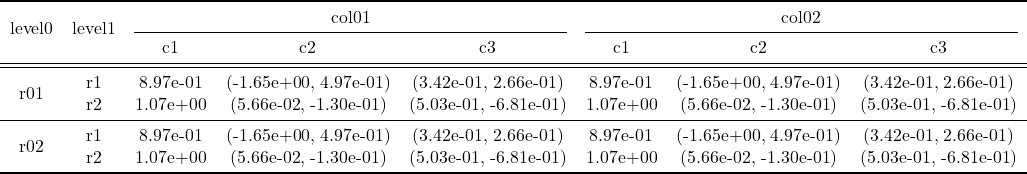
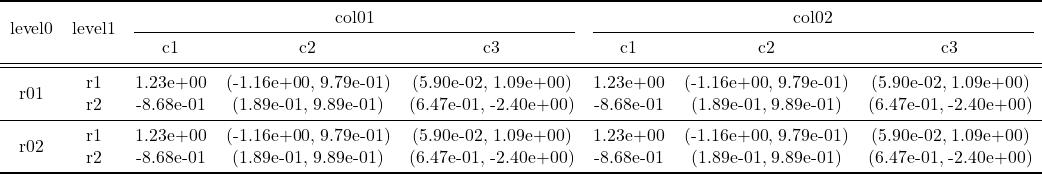
build based on d86344c

diff --git a/dev/index.html b/dev/index.html
@@ -1,2 +1,2 @@
 <!DOCTYPE html>
-<html lang="en"><head><meta charset="UTF-8"/><meta name="viewport" content="width=device-width, initial-scale=1.0"/><title>LaTeXTables.jl Documentation · LaTeXTables.jl Documentation</title><script data-outdated-warner src="assets/warner.js"></script><link href="https://cdnjs.cloudflare.com/ajax/libs/lato-font/3.0.0/css/lato-font.min.css" rel="stylesheet" type="text/css"/><link href="https://cdnjs.cloudflare.com/ajax/libs/juliamono/0.045/juliamono.min.css" rel="stylesheet" type="text/css"/><link href="https://cdnjs.cloudflare.com/ajax/libs/font-awesome/5.15.4/css/fontawesome.min.css" rel="stylesheet" type="text/css"/><link href="https://cdnjs.cloudflare.com/ajax/libs/font-awesome/5.15.4/css/solid.min.css" rel="stylesheet" type="text/css"/><link href="https://cdnjs.cloudflare.com/ajax/libs/font-awesome/5.15.4/css/brands.min.css" rel="stylesheet" type="text/css"/><link href="https://cdnjs.cloudflare.com/ajax/libs/KaTeX/0.13.24/katex.min.css" rel="stylesheet" type="text/css"/><script>documenterBaseURL="."</script><script src="https://cdnjs.cloudflare.com/ajax/libs/require.js/2.3.6/require.min.js" data-main="assets/documenter.js"></script><script src="siteinfo.js"></script><script src="../versions.js"></script><link class="docs-theme-link" rel="stylesheet" type="text/css" href="assets/themes/documenter-dark.css" data-theme-name="documenter-dark" data-theme-primary-dark/><link class="docs-theme-link" rel="stylesheet" type="text/css" href="assets/themes/documenter-light.css" data-theme-name="documenter-light" data-theme-primary/><script src="assets/themeswap.js"></script></head><body><div id="documenter"><nav class="docs-sidebar"><div class="docs-package-name"><span class="docs-autofit"><a href>LaTeXTables.jl Documentation</a></span></div><form class="docs-search" action="search/"><input class="docs-search-query" id="documenter-search-query" name="q" type="text" placeholder="Search docs"/></form><ul class="docs-menu"><li class="is-active"><a class="tocitem" href>LaTeXTables.jl Documentation</a><ul class="internal"><li><a class="tocitem" href="#Related-Packages"><span>Related Packages</span></a></li></ul></li><li><a class="tocitem" href="api/">API</a></li><li><a class="tocitem" href="example/">Examples</a></li></ul><div class="docs-version-selector field has-addons"><div class="control"><span class="docs-label button is-static is-size-7">Version</span></div><div class="docs-selector control is-expanded"><div class="select is-fullwidth is-size-7"><select id="documenter-version-selector"></select></div></div></div></nav><div class="docs-main"><header class="docs-navbar"><nav class="breadcrumb"><ul class="is-hidden-mobile"><li class="is-active"><a href>LaTeXTables.jl Documentation</a></li></ul><ul class="is-hidden-tablet"><li class="is-active"><a href>LaTeXTables.jl Documentation</a></li></ul></nav><div class="docs-right"><a class="docs-edit-link" href="https://github.com/szcf-weiya/LaTeXTables.jl/blob/master/docs/src/index.md" title="Edit on GitHub"><span class="docs-icon fab"></span><span class="docs-label is-hidden-touch">Edit on GitHub</span></a><a class="docs-settings-button fas fa-cog" id="documenter-settings-button" href="#" title="Settings"></a><a class="docs-sidebar-button fa fa-bars is-hidden-desktop" id="documenter-sidebar-button" href="#"></a></div></header><article class="content" id="documenter-page"><h1 id="LaTeXTables.jl-Documentation"><a class="docs-heading-anchor" href="#LaTeXTables.jl-Documentation">LaTeXTables.jl Documentation</a><a id="LaTeXTables.jl-Documentation-1"></a><a class="docs-heading-anchor-permalink" href="#LaTeXTables.jl-Documentation" title="Permalink"></a></h1><p>LaTeXTables.jl is a Julia package that coverts (complex) tables into LaTeX code.</p><h2 id="Related-Packages"><a class="docs-heading-anchor" href="#Related-Packages">Related Packages</a><a id="Related-Packages-1"></a><a class="docs-heading-anchor-permalink" href="#Related-Packages" title="Permalink"></a></h2><ul><li><a href="https://github.com/scheinerman/LatexPrint.jl">https://github.com/scheinerman/LatexPrint.jl</a>: only support basic data structure, such as 1d or 2d arrays</li><li><a href="https://github.com/ronisbr/PrettyTables.jl">https://github.com/ronisbr/PrettyTables.jl</a>: only support simple tables, i.e., one level row and one level column</li></ul></article><nav class="docs-footer"><a class="docs-footer-nextpage" href="api/">API »</a><div class="flexbox-break"></div><p class="footer-message">Powered by <a href="https://github.com/JuliaDocs/Documenter.jl">Documenter.jl</a> and the <a href="https://julialang.org/">Julia Programming Language</a>.</p></nav></div><div class="modal" id="documenter-settings"><div class="modal-background"></div><div class="modal-card"><header class="modal-card-head"><p class="modal-card-title">Settings</p><button class="delete"></button></header><section class="modal-card-body"><p><label class="label">Theme</label><div class="select"><select id="documenter-themepicker"><option value="documenter-light">documenter-light</option><option value="documenter-dark">documenter-dark</option></select></div></p><hr/><p>This document was generated with <a href="https://github.com/JuliaDocs/Documenter.jl">Documenter.jl</a> version 0.27.23 on <span class="colophon-date" title="Wednesday 4 January 2023 02:21">Wednesday 4 January 2023</span>. Using Julia version 1.7.3.</p></section><footer class="modal-card-foot"></footer></div></div></div></body></html>
+<html lang="en"><head><meta charset="UTF-8"/><meta name="viewport" content="width=device-width, initial-scale=1.0"/><title>LaTeXTables.jl Documentation · LaTeXTables.jl Documentation</title><script data-outdated-warner src="assets/warner.js"></script><link href="https://cdnjs.cloudflare.com/ajax/libs/lato-font/3.0.0/css/lato-font.min.css" rel="stylesheet" type="text/css"/><link href="https://cdnjs.cloudflare.com/ajax/libs/juliamono/0.045/juliamono.min.css" rel="stylesheet" type="text/css"/><link href="https://cdnjs.cloudflare.com/ajax/libs/font-awesome/5.15.4/css/fontawesome.min.css" rel="stylesheet" type="text/css"/><link href="https://cdnjs.cloudflare.com/ajax/libs/font-awesome/5.15.4/css/solid.min.css" rel="stylesheet" type="text/css"/><link href="https://cdnjs.cloudflare.com/ajax/libs/font-awesome/5.15.4/css/brands.min.css" rel="stylesheet" type="text/css"/><link href="https://cdnjs.cloudflare.com/ajax/libs/KaTeX/0.13.24/katex.min.css" rel="stylesheet" type="text/css"/><script>documenterBaseURL="."</script><script src="https://cdnjs.cloudflare.com/ajax/libs/require.js/2.3.6/require.min.js" data-main="assets/documenter.js"></script><script src="siteinfo.js"></script><script src="../versions.js"></script><link class="docs-theme-link" rel="stylesheet" type="text/css" href="assets/themes/documenter-dark.css" data-theme-name="documenter-dark" data-theme-primary-dark/><link class="docs-theme-link" rel="stylesheet" type="text/css" href="assets/themes/documenter-light.css" data-theme-name="documenter-light" data-theme-primary/><script src="assets/themeswap.js"></script></head><body><div id="documenter"><nav class="docs-sidebar"><div class="docs-package-name"><span class="docs-autofit"><a href>LaTeXTables.jl Documentation</a></span></div><form class="docs-search" action="search/"><input class="docs-search-query" id="documenter-search-query" name="q" type="text" placeholder="Search docs"/></form><ul class="docs-menu"><li class="is-active"><a class="tocitem" href>LaTeXTables.jl Documentation</a><ul class="internal"><li><a class="tocitem" href="#Related-Packages"><span>Related Packages</span></a></li></ul></li><li><a class="tocitem" href="api/">API</a></li><li><a class="tocitem" href="example/">Examples</a></li></ul><div class="docs-version-selector field has-addons"><div class="control"><span class="docs-label button is-static is-size-7">Version</span></div><div class="docs-selector control is-expanded"><div class="select is-fullwidth is-size-7"><select id="documenter-version-selector"></select></div></div></div></nav><div class="docs-main"><header class="docs-navbar"><nav class="breadcrumb"><ul class="is-hidden-mobile"><li class="is-active"><a href>LaTeXTables.jl Documentation</a></li></ul><ul class="is-hidden-tablet"><li class="is-active"><a href>LaTeXTables.jl Documentation</a></li></ul></nav><div class="docs-right"><a class="docs-edit-link" href="https://github.com/szcf-weiya/LaTeXTables.jl/blob/master/docs/src/index.md" title="Edit on GitHub"><span class="docs-icon fab"></span><span class="docs-label is-hidden-touch">Edit on GitHub</span></a><a class="docs-settings-button fas fa-cog" id="documenter-settings-button" href="#" title="Settings"></a><a class="docs-sidebar-button fa fa-bars is-hidden-desktop" id="documenter-sidebar-button" href="#"></a></div></header><article class="content" id="documenter-page"><h1 id="LaTeXTables.jl-Documentation"><a class="docs-heading-anchor" href="#LaTeXTables.jl-Documentation">LaTeXTables.jl Documentation</a><a id="LaTeXTables.jl-Documentation-1"></a><a class="docs-heading-anchor-permalink" href="#LaTeXTables.jl-Documentation" title="Permalink"></a></h1><p>LaTeXTables.jl is a Julia package that coverts (complex) tables into LaTeX code.</p><h2 id="Related-Packages"><a class="docs-heading-anchor" href="#Related-Packages">Related Packages</a><a id="Related-Packages-1"></a><a class="docs-heading-anchor-permalink" href="#Related-Packages" title="Permalink"></a></h2><ul><li><a href="https://github.com/scheinerman/LatexPrint.jl">https://github.com/scheinerman/LatexPrint.jl</a>: only support basic data structure, such as 1d or 2d arrays</li><li><a href="https://github.com/ronisbr/PrettyTables.jl">https://github.com/ronisbr/PrettyTables.jl</a>: only support simple tables, i.e., one level row and one level column</li></ul></article><nav class="docs-footer"><a class="docs-footer-nextpage" href="api/">API »</a><div class="flexbox-break"></div><p class="footer-message">Powered by <a href="https://github.com/JuliaDocs/Documenter.jl">Documenter.jl</a> and the <a href="https://julialang.org/">Julia Programming Language</a>.</p></nav></div><div class="modal" id="documenter-settings"><div class="modal-background"></div><div class="modal-card"><header class="modal-card-head"><p class="modal-card-title">Settings</p><button class="delete"></button></header><section class="modal-card-body"><p><label class="label">Theme</label><div class="select"><select id="documenter-themepicker"><option value="documenter-light">documenter-light</option><option value="documenter-dark">documenter-dark</option></select></div></p><hr/><p>This document was generated with <a href="https://github.com/JuliaDocs/Documenter.jl">Documenter.jl</a> version 0.27.24 on <span class="colophon-date" title="Wednesday 19 April 2023 14:34">Wednesday 19 April 2023</span>. Using Julia version 1.7.3.</p></section><footer class="modal-card-foot"></footer></div></div></div></body></html>

diff --git a/dev/search/index.html b/dev/search/index.html
@@ -1,2 +1,2 @@
 <!DOCTYPE html>
-<html lang="en"><head><meta charset="UTF-8"/><meta name="viewport" content="width=device-width, initial-scale=1.0"/><title>Search · LaTeXTables.jl Documentation</title><script data-outdated-warner src="../assets/warner.js"></script><link href="https://cdnjs.cloudflare.com/ajax/libs/lato-font/3.0.0/css/lato-font.min.css" rel="stylesheet" type="text/css"/><link href="https://cdnjs.cloudflare.com/ajax/libs/juliamono/0.045/juliamono.min.css" rel="stylesheet" type="text/css"/><link href="https://cdnjs.cloudflare.com/ajax/libs/font-awesome/5.15.4/css/fontawesome.min.css" rel="stylesheet" type="text/css"/><link href="https://cdnjs.cloudflare.com/ajax/libs/font-awesome/5.15.4/css/solid.min.css" rel="stylesheet" type="text/css"/><link href="https://cdnjs.cloudflare.com/ajax/libs/font-awesome/5.15.4/css/brands.min.css" rel="stylesheet" type="text/css"/><link href="https://cdnjs.cloudflare.com/ajax/libs/KaTeX/0.13.24/katex.min.css" rel="stylesheet" type="text/css"/><script>documenterBaseURL=".."</script><script src="https://cdnjs.cloudflare.com/ajax/libs/require.js/2.3.6/require.min.js" data-main="../assets/documenter.js"></script><script src="../siteinfo.js"></script><script src="../../versions.js"></script><link class="docs-theme-link" rel="stylesheet" type="text/css" href="../assets/themes/documenter-dark.css" data-theme-name="documenter-dark" data-theme-primary-dark/><link class="docs-theme-link" rel="stylesheet" type="text/css" href="../assets/themes/documenter-light.css" data-theme-name="documenter-light" data-theme-primary/><script src="../assets/themeswap.js"></script></head><body><div id="documenter"><nav class="docs-sidebar"><div class="docs-package-name"><span class="docs-autofit"><a href="../">LaTeXTables.jl Documentation</a></span></div><form class="docs-search" action><input class="docs-search-query" id="documenter-search-query" name="q" type="text" placeholder="Search docs"/></form><ul class="docs-menu"><li><a class="tocitem" href="../">LaTeXTables.jl Documentation</a></li><li><a class="tocitem" href="../api/">API</a></li><li><a class="tocitem" href="../example/">Examples</a></li></ul><div class="docs-version-selector field has-addons"><div class="control"><span class="docs-label button is-static is-size-7">Version</span></div><div class="docs-selector control is-expanded"><div class="select is-fullwidth is-size-7"><select id="documenter-version-selector"></select></div></div></div></nav><div class="docs-main"><header class="docs-navbar"><nav class="breadcrumb"><ul class="is-hidden-mobile"><li class="is-active"><a href>Search</a></li></ul><ul class="is-hidden-tablet"><li class="is-active"><a href>Search</a></li></ul></nav><div class="docs-right"><a class="docs-settings-button fas fa-cog" id="documenter-settings-button" href="#" title="Settings"></a><a class="docs-sidebar-button fa fa-bars is-hidden-desktop" id="documenter-sidebar-button" href="#"></a></div></header><article><p id="documenter-search-info">Loading search...</p><ul id="documenter-search-results"></ul></article><nav class="docs-footer"><p class="footer-message">Powered by <a href="https://github.com/JuliaDocs/Documenter.jl">Documenter.jl</a> and the <a href="https://julialang.org/">Julia Programming Language</a>.</p></nav></div><div class="modal" id="documenter-settings"><div class="modal-background"></div><div class="modal-card"><header class="modal-card-head"><p class="modal-card-title">Settings</p><button class="delete"></button></header><section class="modal-card-body"><p><label class="label">Theme</label><div class="select"><select id="documenter-themepicker"><option value="documenter-light">documenter-light</option><option value="documenter-dark">documenter-dark</option></select></div></p><hr/><p>This document was generated with <a href="https://github.com/JuliaDocs/Documenter.jl">Documenter.jl</a> version 0.27.23 on <span class="colophon-date" title="Wednesday 4 January 2023 02:21">Wednesday 4 January 2023</span>. Using Julia version 1.7.3.</p></section><footer class="modal-card-foot"></footer></div></div></div></body><script src="../search_index.js"></script><script src="../assets/search.js"></script></html>
+<html lang="en"><head><meta charset="UTF-8"/><meta name="viewport" content="width=device-width, initial-scale=1.0"/><title>Search · LaTeXTables.jl Documentation</title><script data-outdated-warner src="../assets/warner.js"></script><link href="https://cdnjs.cloudflare.com/ajax/libs/lato-font/3.0.0/css/lato-font.min.css" rel="stylesheet" type="text/css"/><link href="https://cdnjs.cloudflare.com/ajax/libs/juliamono/0.045/juliamono.min.css" rel="stylesheet" type="text/css"/><link href="https://cdnjs.cloudflare.com/ajax/libs/font-awesome/5.15.4/css/fontawesome.min.css" rel="stylesheet" type="text/css"/><link href="https://cdnjs.cloudflare.com/ajax/libs/font-awesome/5.15.4/css/solid.min.css" rel="stylesheet" type="text/css"/><link href="https://cdnjs.cloudflare.com/ajax/libs/font-awesome/5.15.4/css/brands.min.css" rel="stylesheet" type="text/css"/><link href="https://cdnjs.cloudflare.com/ajax/libs/KaTeX/0.13.24/katex.min.css" rel="stylesheet" type="text/css"/><script>documenterBaseURL=".."</script><script src="https://cdnjs.cloudflare.com/ajax/libs/require.js/2.3.6/require.min.js" data-main="../assets/documenter.js"></script><script src="../siteinfo.js"></script><script src="../../versions.js"></script><link class="docs-theme-link" rel="stylesheet" type="text/css" href="../assets/themes/documenter-dark.css" data-theme-name="documenter-dark" data-theme-primary-dark/><link class="docs-theme-link" rel="stylesheet" type="text/css" href="../assets/themes/documenter-light.css" data-theme-name="documenter-light" data-theme-primary/><script src="../assets/themeswap.js"></script></head><body><div id="documenter"><nav class="docs-sidebar"><div class="docs-package-name"><span class="docs-autofit"><a href="../">LaTeXTables.jl Documentation</a></span></div><form class="docs-search" action><input class="docs-search-query" id="documenter-search-query" name="q" type="text" placeholder="Search docs"/></form><ul class="docs-menu"><li><a class="tocitem" href="../">LaTeXTables.jl Documentation</a></li><li><a class="tocitem" href="../api/">API</a></li><li><a class="tocitem" href="../example/">Examples</a></li></ul><div class="docs-version-selector field has-addons"><div class="control"><span class="docs-label button is-static is-size-7">Version</span></div><div class="docs-selector control is-expanded"><div class="select is-fullwidth is-size-7"><select id="documenter-version-selector"></select></div></div></div></nav><div class="docs-main"><header class="docs-navbar"><nav class="breadcrumb"><ul class="is-hidden-mobile"><li class="is-active"><a href>Search</a></li></ul><ul class="is-hidden-tablet"><li class="is-active"><a href>Search</a></li></ul></nav><div class="docs-right"><a class="docs-settings-button fas fa-cog" id="documenter-settings-button" href="#" title="Settings"></a><a class="docs-sidebar-button fa fa-bars is-hidden-desktop" id="documenter-sidebar-button" href="#"></a></div></header><article><p id="documenter-search-info">Loading search...</p><ul id="documenter-search-results"></ul></article><nav class="docs-footer"><p class="footer-message">Powered by <a href="https://github.com/JuliaDocs/Documenter.jl">Documenter.jl</a> and the <a href="https://julialang.org/">Julia Programming Language</a>.</p></nav></div><div class="modal" id="documenter-settings"><div class="modal-background"></div><div class="modal-card"><header class="modal-card-head"><p class="modal-card-title">Settings</p><button class="delete"></button></header><section class="modal-card-body"><p><label class="label">Theme</label><div class="select"><select id="documenter-themepicker"><option value="documenter-light">documenter-light</option><option value="documenter-dark">documenter-dark</option></select></div></p><hr/><p>This document was generated with <a href="https://github.com/JuliaDocs/Documenter.jl">Documenter.jl</a> version 0.27.24 on <span class="colophon-date" title="Wednesday 19 April 2023 14:34">Wednesday 19 April 2023</span>. Using Julia version 1.7.3.</p></section><footer class="modal-card-foot"></footer></div></div></div></body><script src="../search_index.js"></script><script src="../assets/search.js"></script></html>

diff --git a/dev/api/index.html b/dev/api/index.html
@@ -13,4 +13,4 @@ julia&gt; print2tex(μ, σ, [&quot;A&quot;, &quot;B&quot;], [&quot;a&quot;, &quo
 noc = 0
 14
 
-julia&gt; tex2png(&quot;ex1.tex&quot;)</code></pre></div><a class="docs-sourcelink" target="_blank" href="https://github.com/szcf-weiya/LaTeXTables.jl/blob/5904b083e5ba349c735da2efcde2e5f695bdf0e5/src/tab2tex.jl#L7-L33">source</a></section></article><article class="docstring"><header><a class="docstring-binding" id="LaTeXTables.tex2png" href="#LaTeXTables.tex2png"><code>LaTeXTables.tex2png</code></a> — <span class="docstring-category">Function</span></header><section><div><pre><code class="language-julia hljs">tex2png()</code></pre><p>Render a latex table source file into an image via https://quicklatex.com/js/quicklatex.js</p></div><a class="docs-sourcelink" target="_blank" href="https://github.com/szcf-weiya/LaTeXTables.jl/blob/5904b083e5ba349c735da2efcde2e5f695bdf0e5/src/render.jl#L2-L6">source</a></section></article></article><nav class="docs-footer"><a class="docs-footer-prevpage" href="../">« LaTeXTables.jl Documentation</a><a class="docs-footer-nextpage" href="../example/">Examples »</a><div class="flexbox-break"></div><p class="footer-message">Powered by <a href="https://github.com/JuliaDocs/Documenter.jl">Documenter.jl</a> and the <a href="https://julialang.org/">Julia Programming Language</a>.</p></nav></div><div class="modal" id="documenter-settings"><div class="modal-background"></div><div class="modal-card"><header class="modal-card-head"><p class="modal-card-title">Settings</p><button class="delete"></button></header><section class="modal-card-body"><p><label class="label">Theme</label><div class="select"><select id="documenter-themepicker"><option value="documenter-light">documenter-light</option><option value="documenter-dark">documenter-dark</option></select></div></p><hr/><p>This document was generated with <a href="https://github.com/JuliaDocs/Documenter.jl">Documenter.jl</a> version 0.27.23 on <span class="colophon-date" title="Wednesday 4 January 2023 02:21">Wednesday 4 January 2023</span>. Using Julia version 1.7.3.</p></section><footer class="modal-card-foot"></footer></div></div></div></body></html>
+julia&gt; tex2png(&quot;ex1.tex&quot;)</code></pre></div><a class="docs-sourcelink" target="_blank" href="https://github.com/szcf-weiya/LaTeXTables.jl/blob/d86344c21df6e761a7a19191cc8bac31ff465c4b/src/tab2tex.jl#L7-L33">source</a></section></article><article class="docstring"><header><a class="docstring-binding" id="LaTeXTables.tex2png" href="#LaTeXTables.tex2png"><code>LaTeXTables.tex2png</code></a> — <span class="docstring-category">Function</span></header><section><div><pre><code class="language-julia hljs">tex2png()</code></pre><p>Render a latex table source file into an image via https://quicklatex.com/js/quicklatex.js</p></div><a class="docs-sourcelink" target="_blank" href="https://github.com/szcf-weiya/LaTeXTables.jl/blob/d86344c21df6e761a7a19191cc8bac31ff465c4b/src/render.jl#L2-L6">source</a></section></article></article><nav class="docs-footer"><a class="docs-footer-prevpage" href="../">« LaTeXTables.jl Documentation</a><a class="docs-footer-nextpage" href="../example/">Examples »</a><div class="flexbox-break"></div><p class="footer-message">Powered by <a href="https://github.com/JuliaDocs/Documenter.jl">Documenter.jl</a> and the <a href="https://julialang.org/">Julia Programming Language</a>.</p></nav></div><div class="modal" id="documenter-settings"><div class="modal-background"></div><div class="modal-card"><header class="modal-card-head"><p class="modal-card-title">Settings</p><button class="delete"></button></header><section class="modal-card-body"><p><label class="label">Theme</label><div class="select"><select id="documenter-themepicker"><option value="documenter-light">documenter-light</option><option value="documenter-dark">documenter-dark</option></select></div></p><hr/><p>This document was generated with <a href="https://github.com/JuliaDocs/Documenter.jl">Documenter.jl</a> version 0.27.24 on <span class="colophon-date" title="Wednesday 19 April 2023 14:34">Wednesday 19 April 2023</span>. Using Julia version 1.7.3.</p></section><footer class="modal-card-foot"></footer></div></div></div></body></html>

diff --git a/dev/example/index.html b/dev/example/index.html
@@ -29,4 +29,4 @@ others_σ = [rand(3, 1), rand(3, 1)]
 print2tex(μ, σ, [&quot;A&quot;, &quot;B&quot;], [&quot;a&quot;, &quot;b&quot;], [&quot;1&quot;,&quot;2&quot;,&quot;3&quot;], [&quot;x&quot;, &quot;y&quot;], file = &quot;ex2.tex&quot;, other_cols = others, other_col_names = [&quot;other&quot;], other_cols_σ = others_σ)
 tex2png(&quot;ex2.tex&quot;)</code></pre><pre class="documenter-example-output"><code class="nohighlight hljs ansi">&quot;ex2.png&quot;</code></pre><p><img src="../ex2.png" alt/></p><h3 id="Add-columns-on-the-right"><a class="docs-heading-anchor" href="#Add-columns-on-the-right">Add columns on the right</a><a id="Add-columns-on-the-right-1"></a><a class="docs-heading-anchor-permalink" href="#Add-columns-on-the-right" title="Permalink"></a></h3><pre><code class="language-julia hljs">right = [[rand(3), rand(3)]]
 print2tex(μ, σ, [&quot;A&quot;, &quot;B&quot;], [&quot;a&quot;, &quot;b&quot;], [&quot;1&quot;,&quot;2&quot;,&quot;3&quot;], [&quot;x&quot;, &quot;y&quot;], file = &quot;ex3.tex&quot;, other_cols = others, other_col_names = [&quot;other&quot;], other_cols_σ = others_σ, right_cols = right, right_col_names = [&quot;right&quot;])
-tex2png(&quot;ex3.tex&quot;)</code></pre><pre class="documenter-example-output"><code class="nohighlight hljs ansi">&quot;ex3.png&quot;</code></pre><p><img src="../ex3.png" alt/></p></article><nav class="docs-footer"><a class="docs-footer-prevpage" href="../api/">« API</a><div class="flexbox-break"></div><p class="footer-message">Powered by <a href="https://github.com/JuliaDocs/Documenter.jl">Documenter.jl</a> and the <a href="https://julialang.org/">Julia Programming Language</a>.</p></nav></div><div class="modal" id="documenter-settings"><div class="modal-background"></div><div class="modal-card"><header class="modal-card-head"><p class="modal-card-title">Settings</p><button class="delete"></button></header><section class="modal-card-body"><p><label class="label">Theme</label><div class="select"><select id="documenter-themepicker"><option value="documenter-light">documenter-light</option><option value="documenter-dark">documenter-dark</option></select></div></p><hr/><p>This document was generated with <a href="https://github.com/JuliaDocs/Documenter.jl">Documenter.jl</a> version 0.27.23 on <span class="colophon-date" title="Wednesday 4 January 2023 02:21">Wednesday 4 January 2023</span>. Using Julia version 1.7.3.</p></section><footer class="modal-card-foot"></footer></div></div></div></body></html>
+tex2png(&quot;ex3.tex&quot;)</code></pre><pre class="documenter-example-output"><code class="nohighlight hljs ansi">&quot;ex3.png&quot;</code></pre><p><img src="../ex3.png" alt/></p></article><nav class="docs-footer"><a class="docs-footer-prevpage" href="../api/">« API</a><div class="flexbox-break"></div><p class="footer-message">Powered by <a href="https://github.com/JuliaDocs/Documenter.jl">Documenter.jl</a> and the <a href="https://julialang.org/">Julia Programming Language</a>.</p></nav></div><div class="modal" id="documenter-settings"><div class="modal-background"></div><div class="modal-card"><header class="modal-card-head"><p class="modal-card-title">Settings</p><button class="delete"></button></header><section class="modal-card-body"><p><label class="label">Theme</label><div class="select"><select id="documenter-themepicker"><option value="documenter-light">documenter-light</option><option value="documenter-dark">documenter-dark</option></select></div></p><hr/><p>This document was generated with <a href="https://github.com/JuliaDocs/Documenter.jl">Documenter.jl</a> version 0.27.24 on <span class="colophon-date" title="Wednesday 19 April 2023 14:34">Wednesday 19 April 2023</span>. Using Julia version 1.7.3.</p></section><footer class="modal-card-foot"></footer></div></div></div></body></html>

diff --git a/dev/ex3.tex b/dev/ex3.tex
@@ -5,12 +5,12 @@
 \cmidrule(lr){6-7}
 &&&x&y&x&y\tabularnewline
 \midrule
-\multirow{3}{*}{A}&1& 4.71e-01 (5.4e-01)& 4.16e-01 (2.7e-01)& 8.77e-01 (5.8e-01)& 9.49e-01 (9.4e-01)& 1.30e-01 (6.7e-01)& 0.6953347886256827\tabularnewline
-&2& 9.68e-01 (5.4e-01)& 1.57e-01 (9.1e-01)& 9.08e-01 (2.4e-01)& 9.59e-01 (4.3e-02)& 8.12e-01 (8.3e-01)& 0.3221765254389888\tabularnewline
-&3& 8.84e-01 (1.0e-01)& 8.97e-01 (9.3e-02)& 6.73e-01 (7.3e-02)& 3.19e-01 (8.6e-01)& 7.00e-01 (2.5e-01)& 0.17986707434036142\tabularnewline
+\multirow{3}{*}{A}&1& 6.56e-01 (2.8e-01)& 2.83e-01 (3.4e-01)& 5.97e-01 (4.0e-01)& 2.09e-01 (8.7e-01)& 4.91e-01 (3.8e-01)& 0.4749440291580692\tabularnewline
+&2& 8.96e-01 (8.0e-01)& 8.09e-01 (9.7e-01)& 7.55e-02 (3.1e-01)& 8.41e-01 (7.4e-01)& 9.53e-01 (2.7e-01)& 0.44584203082251117\tabularnewline
+&3& 5.05e-01 (4.1e-01)& 9.38e-01 (5.8e-01)& 7.70e-01 (9.0e-02)& 5.30e-01 (8.0e-01)& 2.38e-01 (8.8e-01)& 0.5585442839036352\tabularnewline
 \midrule
-\multirow{3}{*}{B}&1& 4.25e-01 (9.1e-01)& 9.96e-01 (9.5e-01)& 8.54e-01 (1.0e-02)& 4.57e-01 (3.5e-01)& 8.23e-01 (3.8e-01)& 0.47677635375467675\tabularnewline
-&2& 4.65e-01 (9.9e-01)& 8.91e-01 (3.1e-01)& 2.23e-01 (9.3e-01)& 8.73e-01 (3.1e-01)& 8.77e-01 (5.1e-01)& 0.9095270319424117\tabularnewline
-&3& 5.11e-01 (7.7e-01)& 6.10e-01 (4.9e-01)& 8.44e-01 (3.9e-01)& 2.63e-01 (6.7e-02)& 5.81e-01 (1.9e-01)& 0.6064933688352014\tabularnewline
+\multirow{3}{*}{B}&1& 4.31e-01 (6.5e-01)& 6.95e-01 (1.9e-01)& 6.77e-02 (2.0e-01)& 2.42e-01 (8.5e-01)& 5.66e-01 (2.5e-01)& 0.11702431461121654\tabularnewline
+&2& 6.75e-01 (8.3e-01)& 5.23e-01 (8.2e-01)& 8.08e-01 (9.3e-01)& 6.02e-01 (5.6e-01)& 2.92e-01 (7.9e-01)& 0.9401077491044876\tabularnewline
+&3& 8.70e-01 (4.9e-01)& 7.38e-01 (4.9e-01)& 8.88e-01 (7.8e-01)& 5.41e-01 (4.4e-02)& 5.78e-01 (1.2e-01)& 0.9153357345581982\tabularnewline
 \bottomrule
 \end{tabular}

diff --git a/dev/ex2.tex b/dev/ex2.tex
@@ -5,12 +5,12 @@
 \cmidrule(lr){6-7}
 &&&x&y&x&y\tabularnewline
 \midrule
-\multirow{3}{*}{A}&1& 4.71e-01 (5.4e-01)& 4.16e-01 (2.7e-01)& 8.77e-01 (5.8e-01)& 9.49e-01 (9.4e-01)& 1.30e-01 (6.7e-01)\tabularnewline
-&2& 9.68e-01 (5.4e-01)& 1.57e-01 (9.1e-01)& 9.08e-01 (2.4e-01)& 9.59e-01 (4.3e-02)& 8.12e-01 (8.3e-01)\tabularnewline
-&3& 8.84e-01 (1.0e-01)& 8.97e-01 (9.3e-02)& 6.73e-01 (7.3e-02)& 3.19e-01 (8.6e-01)& 7.00e-01 (2.5e-01)\tabularnewline
+\multirow{3}{*}{A}&1& 6.56e-01 (2.8e-01)& 2.83e-01 (3.4e-01)& 5.97e-01 (4.0e-01)& 2.09e-01 (8.7e-01)& 4.91e-01 (3.8e-01)\tabularnewline
+&2& 8.96e-01 (8.0e-01)& 8.09e-01 (9.7e-01)& 7.55e-02 (3.1e-01)& 8.41e-01 (7.4e-01)& 9.53e-01 (2.7e-01)\tabularnewline
+&3& 5.05e-01 (4.1e-01)& 9.38e-01 (5.8e-01)& 7.70e-01 (9.0e-02)& 5.30e-01 (8.0e-01)& 2.38e-01 (8.8e-01)\tabularnewline
 \midrule
-\multirow{3}{*}{B}&1& 4.25e-01 (9.1e-01)& 9.96e-01 (9.5e-01)& 8.54e-01 (1.0e-02)& 4.57e-01 (3.5e-01)& 8.23e-01 (3.8e-01)\tabularnewline
-&2& 4.65e-01 (9.9e-01)& 8.91e-01 (3.1e-01)& 2.23e-01 (9.3e-01)& 8.73e-01 (3.1e-01)& 8.77e-01 (5.1e-01)\tabularnewline
-&3& 5.11e-01 (7.7e-01)& 6.10e-01 (4.9e-01)& 8.44e-01 (3.9e-01)& 2.63e-01 (6.7e-02)& 5.81e-01 (1.9e-01)\tabularnewline
+\multirow{3}{*}{B}&1& 4.31e-01 (6.5e-01)& 6.95e-01 (1.9e-01)& 6.77e-02 (2.0e-01)& 2.42e-01 (8.5e-01)& 5.66e-01 (2.5e-01)\tabularnewline
+&2& 6.75e-01 (8.3e-01)& 5.23e-01 (8.2e-01)& 8.08e-01 (9.3e-01)& 6.02e-01 (5.6e-01)& 2.92e-01 (7.9e-01)\tabularnewline
+&3& 8.70e-01 (4.9e-01)& 7.38e-01 (4.9e-01)& 8.88e-01 (7.8e-01)& 5.41e-01 (4.4e-02)& 5.78e-01 (1.2e-01)\tabularnewline
 \bottomrule
 \end{tabular}

diff --git a/dev/ex1.tex b/dev/ex1.tex
@@ -5,12 +5,12 @@
 \cmidrule(lr){5-6}
 &&x&y&x&y\tabularnewline
 \midrule
-\multirow{3}{*}{A}&1& 4.16e-01 (2.7e-01)& 8.77e-01 (5.8e-01)& 9.49e-01 (9.4e-01)& 1.30e-01 (6.7e-01)\tabularnewline
-&2& 1.57e-01 (9.1e-01)& 9.08e-01 (2.4e-01)& 9.59e-01 (4.3e-02)& 8.12e-01 (8.3e-01)\tabularnewline
-&3& 8.97e-01 (9.3e-02)& 6.73e-01 (7.3e-02)& 3.19e-01 (8.6e-01)& 7.00e-01 (2.5e-01)\tabularnewline
+\multirow{3}{*}{A}&1& 2.83e-01 (3.4e-01)& 5.97e-01 (4.0e-01)& 2.09e-01 (8.7e-01)& 4.91e-01 (3.8e-01)\tabularnewline
+&2& 8.09e-01 (9.7e-01)& 7.55e-02 (3.1e-01)& 8.41e-01 (7.4e-01)& 9.53e-01 (2.7e-01)\tabularnewline
+&3& 9.38e-01 (5.8e-01)& 7.70e-01 (9.0e-02)& 5.30e-01 (8.0e-01)& 2.38e-01 (8.8e-01)\tabularnewline
 \midrule
-\multirow{3}{*}{B}&1& 9.96e-01 (9.5e-01)& 8.54e-01 (1.0e-02)& 4.57e-01 (3.5e-01)& 8.23e-01 (3.8e-01)\tabularnewline
-&2& 8.91e-01 (3.1e-01)& 2.23e-01 (9.3e-01)& 8.73e-01 (3.1e-01)& 8.77e-01 (5.1e-01)\tabularnewline
-&3& 6.10e-01 (4.9e-01)& 8.44e-01 (3.9e-01)& 2.63e-01 (6.7e-02)& 5.81e-01 (1.9e-01)\tabularnewline
+\multirow{3}{*}{B}&1& 6.95e-01 (1.9e-01)& 6.77e-02 (2.0e-01)& 2.42e-01 (8.5e-01)& 5.66e-01 (2.5e-01)\tabularnewline
+&2& 5.23e-01 (8.2e-01)& 8.08e-01 (9.3e-01)& 6.02e-01 (5.6e-01)& 2.92e-01 (7.9e-01)\tabularnewline
+&3& 7.38e-01 (4.9e-01)& 8.88e-01 (7.8e-01)& 5.41e-01 (4.4e-02)& 5.78e-01 (1.2e-01)\tabularnewline
 \bottomrule
 \end{tabular}

diff --git a/dev/row2col2.tex b/dev/row2col2.tex
@@ -6,10 +6,10 @@
 &&c1&c2&c3&c1&c2&c3\tabularnewline
 \midrule
 \midrule
-\multirow{2}{*}{r01}&r1&8.97e-01& (-1.65e+00, 4.97e-01)& (3.42e-01, 2.66e-01)&8.97e-01& (-1.65e+00, 4.97e-01)& (3.42e-01, 2.66e-01)\tabularnewline
-&r2&1.07e+00& (5.66e-02, -1.30e-01)& (5.03e-01, -6.81e-01)&1.07e+00& (5.66e-02, -1.30e-01)& (5.03e-01, -6.81e-01)\tabularnewline
+\multirow{2}{*}{r01}&r1&1.23e+00& (-1.16e+00, 9.79e-01)& (5.90e-02, 1.09e+00)&1.23e+00& (-1.16e+00, 9.79e-01)& (5.90e-02, 1.09e+00)\tabularnewline
+&r2&-8.68e-01& (1.89e-01, 9.89e-01)& (6.47e-01, -2.40e+00)&-8.68e-01& (1.89e-01, 9.89e-01)& (6.47e-01, -2.40e+00)\tabularnewline
 \midrule
-\multirow{2}{*}{r02}&r1&8.97e-01& (-1.65e+00, 4.97e-01)& (3.42e-01, 2.66e-01)&8.97e-01& (-1.65e+00, 4.97e-01)& (3.42e-01, 2.66e-01)\tabularnewline
-&r2&1.07e+00& (5.66e-02, -1.30e-01)& (5.03e-01, -6.81e-01)&1.07e+00& (5.66e-02, -1.30e-01)& (5.03e-01, -6.81e-01)\tabularnewline
+\multirow{2}{*}{r02}&r1&1.23e+00& (-1.16e+00, 9.79e-01)& (5.90e-02, 1.09e+00)&1.23e+00& (-1.16e+00, 9.79e-01)& (5.90e-02, 1.09e+00)\tabularnewline
+&r2&-8.68e-01& (1.89e-01, 9.89e-01)& (6.47e-01, -2.40e+00)&-8.68e-01& (1.89e-01, 9.89e-01)& (6.47e-01, -2.40e+00)\tabularnewline
 \bottomrule
 \end{tabular}

diff --git a/dev/ex02.tex b/dev/ex02.tex
@@ -2,12 +2,12 @@
 \toprule
 row&col1&col2&col3\tabularnewline
 \midrule
-A&1.19e+00& (-1.08e+00, 4.69e-01)& (-2.55e+00, 8.17e-01)\tabularnewline
-B&1.00e+00& (1.50e+00, 3.34e-02)& (-5.04e-01, 6.14e-01)\tabularnewline
+A&-2.81e-01& (-1.34e-01, 6.85e-01)& (3.21e-01, -4.57e-01)\tabularnewline
+B&1.52e+00& (-1.31e-02, -5.92e-01)& (-2.71e-01, 1.42e-01)\tabularnewline
 \midrule
 &COL1&col2&col3\tabularnewline
 \midrule
-A&1.19e+00& (-1.08e+00, 4.69e-01)& (-2.55e+00, 8.17e-01)\tabularnewline
-B&1.00e+00& (1.50e+00, 3.34e-02)& (-5.04e-01, 6.14e-01)\tabularnewline
+A&-2.81e-01& (-1.34e-01, 6.85e-01)& (3.21e-01, -4.57e-01)\tabularnewline
+B&1.52e+00& (-1.31e-02, -5.92e-01)& (-2.71e-01, 1.42e-01)\tabularnewline
 \bottomrule
 \end{tabular}

diff --git a/dev/col2.tex b/dev/col2.tex
@@ -5,7 +5,7 @@
 \cmidrule(lr){5-7}
 &c1&c2&c3&c1&c2&c3\tabularnewline
 \midrule
-r1&-1.61e-01& (-1.98e-01, 5.79e-01)& (-2.98e-02, 1.18e+00)&-1.61e-01& (-1.98e-01, 5.79e-01)& (-2.98e-02, 1.18e+00)\tabularnewline
-r2&4.70e-02& (-8.98e-01, -5.34e-01)& (-1.72e-01, -2.44e+00)&4.70e-02& (-8.98e-01, -5.34e-01)& (-1.72e-01, -2.44e+00)\tabularnewline
+r1&-1.37e+00& (2.00e+00, -2.27e+00)& (-5.34e-01, 1.06e+00)&-1.37e+00& (2.00e+00, -2.27e+00)& (-5.34e-01, 1.06e+00)\tabularnewline
+r2&4.55e-01& (-3.82e-01, -3.70e-02)& (1.68e+00, 2.04e-01)&4.55e-01& (-3.82e-01, -3.70e-02)& (1.68e+00, 2.04e-01)\tabularnewline
 \bottomrule
 \end{tabular}

diff --git a/dev/ex01.tex b/dev/ex01.tex
@@ -2,7 +2,7 @@
 \toprule
 row&col1&col2&col3\tabularnewline
 \midrule
-A&-1.32e+00& (-7.98e-01, -8.41e-02)& (-1.31e+00, 7.18e-01)\tabularnewline
-B&-6.30e-03& (-1.06e+00, -9.41e-01)& (7.68e-01, 6.68e-01)\tabularnewline
+A&-8.26e-01& (-1.05e+00, -1.72e+00)& (3.26e-01, -1.51e-01)\tabularnewline
+B&3.94e-01& (4.24e-01, -1.30e+00)& (9.58e-02, -9.04e-01)\tabularnewline
 \bottomrule
 \end{tabular}

diff --git a/dev/ex0.tex b/dev/ex0.tex
@@ -2,7 +2,7 @@
 \toprule
 row&col1&col2&col3\tabularnewline
 \midrule
-A&9.63e-01&7.79e-01&1.37e-01\tabularnewline
-B&1.70e-01&8.74e-01&1.67e-01\tabularnewline
+A&5.10e-01&1.95e-01&4.34e-01\tabularnewline
+B&7.16e-01&9.67e-01&2.36e-01\tabularnewline
 \bottomrule
 \end{tabular}
